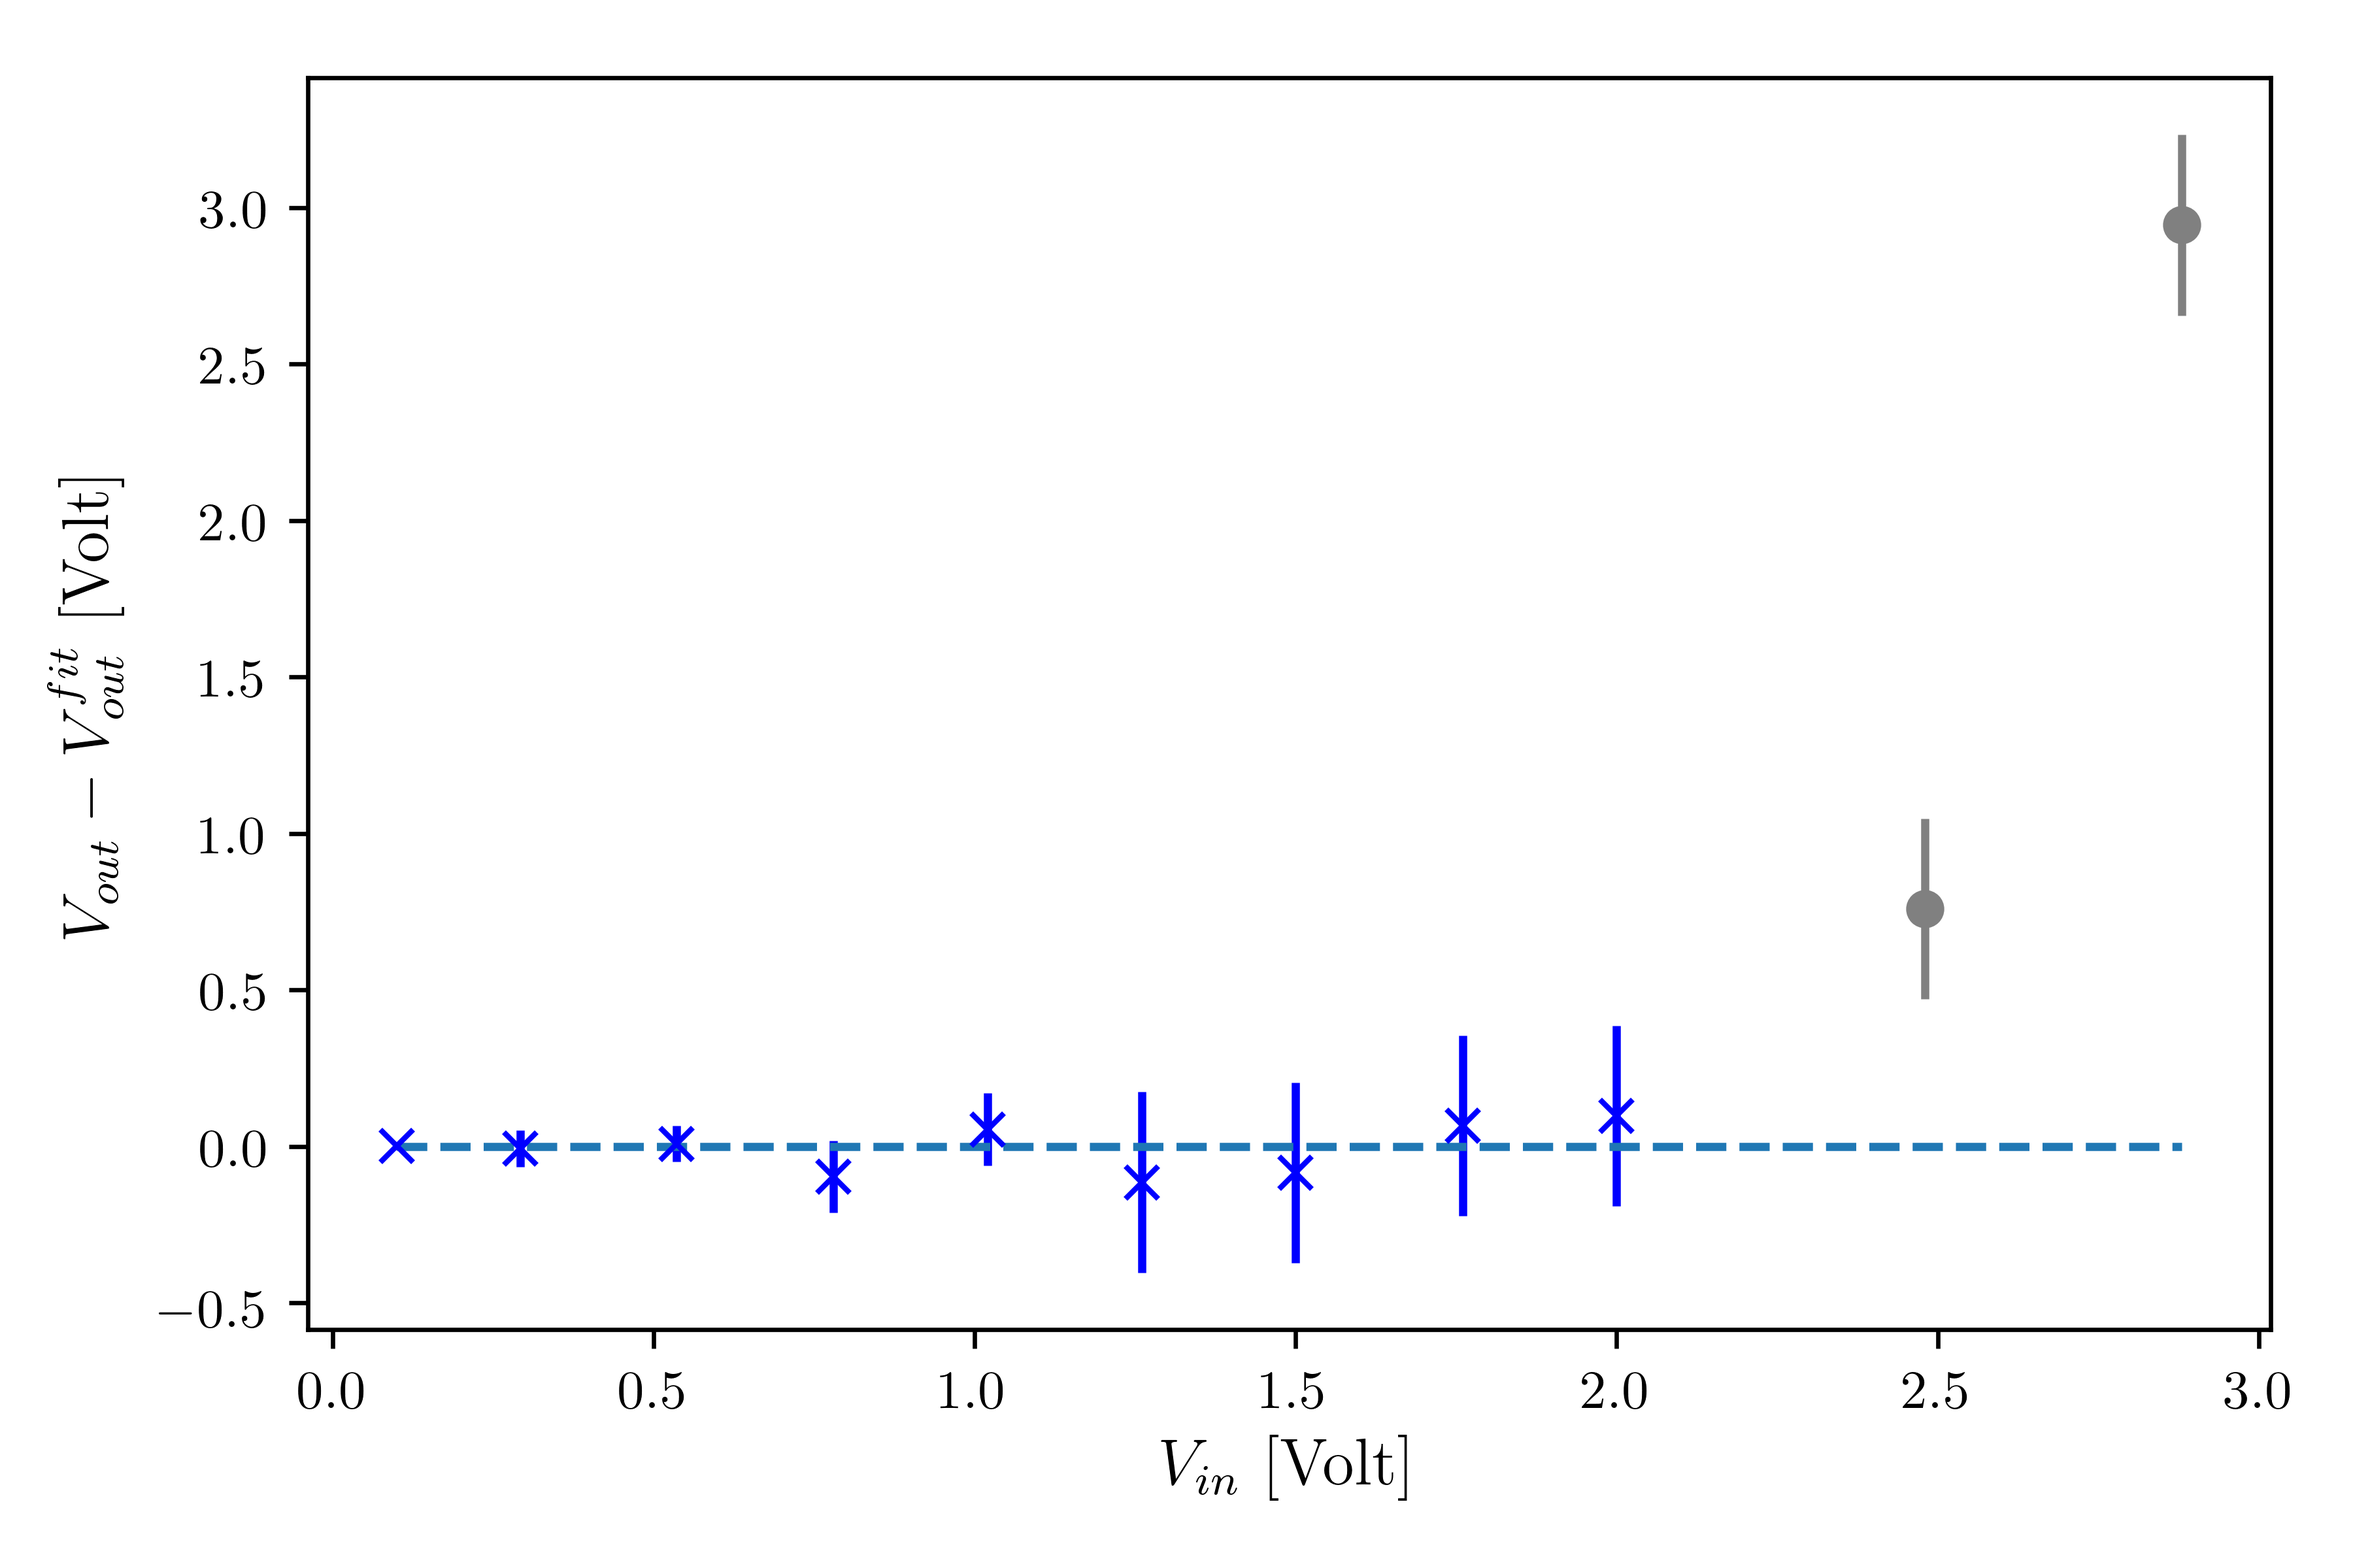
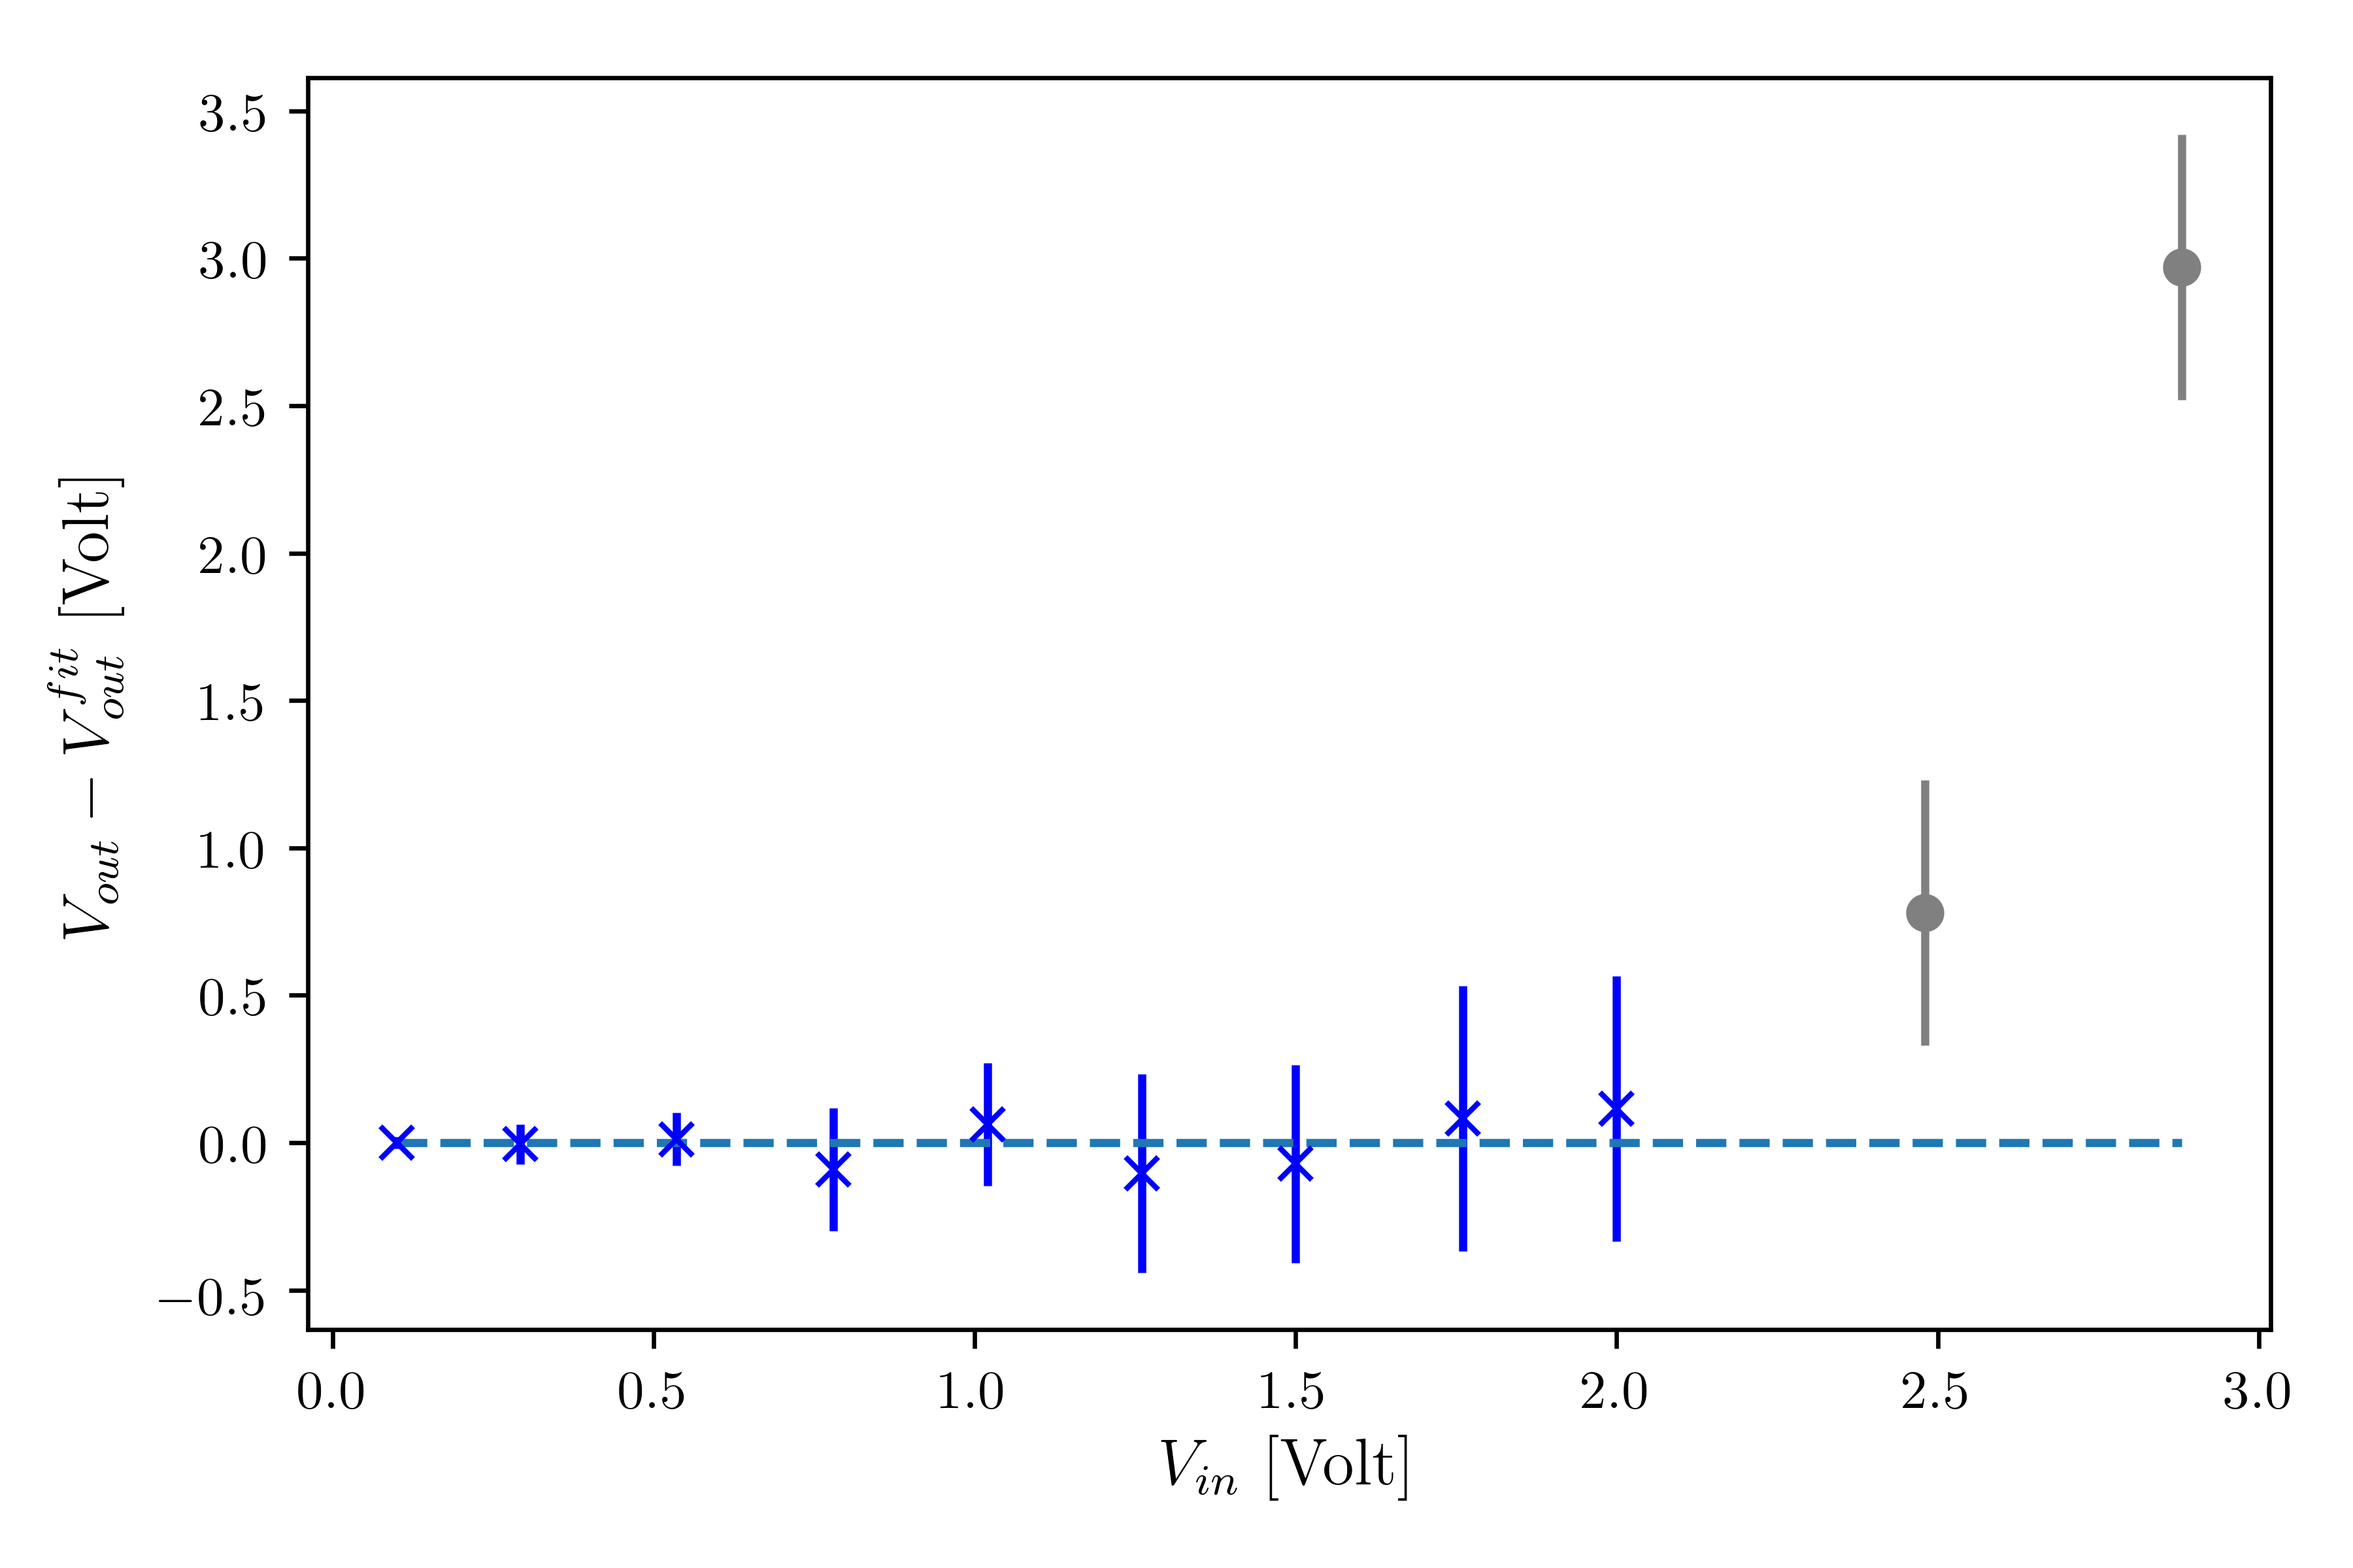
Fixed small issues

diff --git a/fits_multimeter_errors.py b/fits_multimeter_errors.py
@@ -64,7 +64,7 @@ class dataset:
         returns params, error_params
         """
         x_array = self.x_array[self.point_ignore==0]
-        y_array = self.y_array[self.point_ignore==0]
+        y_array = self.y_array[self.point_ignore==0] 
         y_error_array = self.y_error_array[self.point_ignore==0]
         
         
@@ -126,6 +126,9 @@ class dataset:
             print('Must calculate errors first')
             return(None)
         
+        m, q = self.fit_uarray()
+        
+        
         x_array = self.x_array[self.point_ignore==0]
         y_array = self.y_array[self.point_ignore==0]
         y_error_array = self.y_error_array[self.point_ignore==0]
@@ -145,7 +148,7 @@ class dataset:
         
         x_extra_array = self.x_array[self.point_ignore==1]
         y_extra_array = self.y_array[self.point_ignore==1]
-        y_extra_error_array = self.y_error_array[self.point_ignore==1]
+        y_extra_error_array = self.y_error_array[self.point_ignore==1] + self.x_error_array[self.point_ignore==1] * np.abs(m.n)
         
         params, error_params = self.fit()
         y_range = self.model(x_range, params[0], params[1])
@@ -165,6 +168,8 @@ class dataset:
         if(len(self.y_error_array) != len(all_residuals)):
             print('Must calculate errors first')
             return(0)
+        
+        m, q = self.fit_uarray()
         
         x_array = self.x_array[self.point_ignore==0]
         y_error_array = self.y_error_array[self.point_ignore==0]

diff --git a/mosfet_load_data_1.py b/mosfet_load_data_1.py
@@ -20,6 +20,9 @@ characteristic_12 = dataset(V_ds_arr_12, I_d_arr_12, 'v', 'a')
 characteristic_12.calculate_error(I_d_scale_arr_12, 'y', 'm')
 characteristic_12.calculate_error(V_ds_scale_arr_12, 'x', 'a')
 
+characteristic_12.point_ignore = np.array([0, 0, 0, 0, 0, 0,
+                                     0, 0, 0, 0, 0])
+
 m_12, q_12 = characteristic_12.fit_uarray()
 
 r_0_12 = 1 / m_12

diff --git a/opamp_main.py b/opamp_main.py
@@ -68,7 +68,7 @@ print('\n')
 
 A_21 = Vout_21 / Vin_21
 
-A_teor_21 = (1 + R_1[1] / R_1[0])/(1 + R_21[0]/R_21[1]) * np.ones(len(A_21))
+A_teor_21 = (1 + R_1[1] / R_1[0]) / (1 + R_21[0]/R_21[1]) * np.ones(len(A_21))
 
 compatibility_21a = uarray_compatibility(A_21, A_teor_21)
 

diff --git a/mosfet_load_data_4.py b/mosfet_load_data_4.py
@@ -1,2 +1,2 @@
 from fits_multimeter_errors import *
-
+from mosfet_load_data_3 import *
